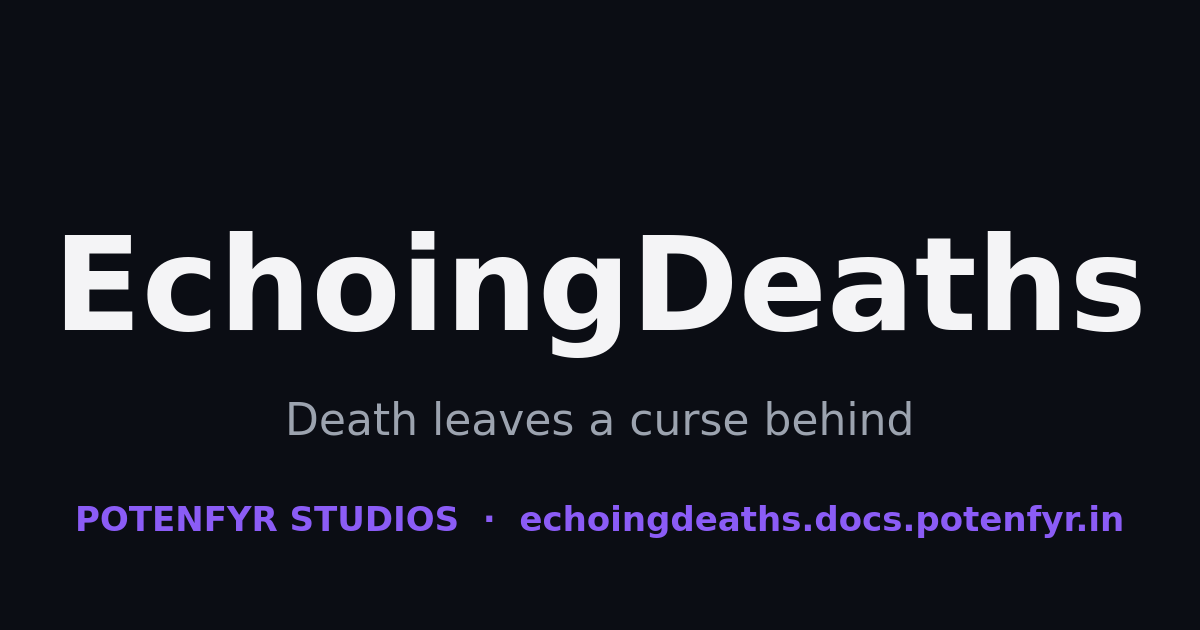
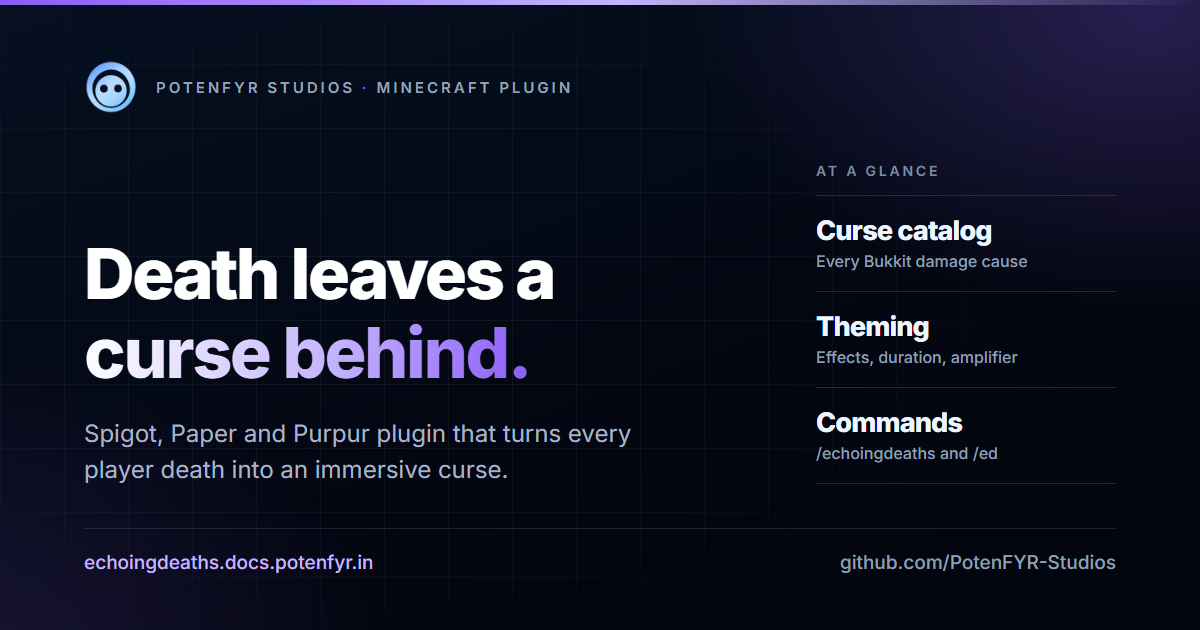
feat(docs): redesigned OG card rendered from a committed script

diff --git a/docs/scripts/og/card.html b/docs/scripts/og/card.html
@@ -1,0 +1,199 @@
+<!doctype html>
+<html lang="en">
+  <head>
+    <meta charset="utf-8" />
+    <title>EchoingDeaths link preview</title>
+    <!--
+      Shared template for PotenFYR Studios project OG cards.
+      Edit only the CONFIG block below; the layout stays identical across the org
+      so every project's link preview reads as one family.
+      Render with: bun run og:image  (scripts/og/build-og.mjs)
+    -->
+    <link rel="preconnect" href="https://fonts.googleapis.com" />
+    <link rel="preconnect" href="https://fonts.gstatic.com" crossorigin />
+    <link
+      href="https://fonts.googleapis.com/css2?family=Inter:wght@400;500;600;700;800&display=swap"
+      rel="stylesheet"
+    />
+    <style>
+      /* ---------------- CONFIG ---------------- */
+      :root {
+        --accent: #8b5cf6;         /* project accent, matches the docs site */
+        --accent-soft: #c4b5fd;    /* lighter tint of --accent */
+      }
+      /* ---------------- /CONFIG --------------- */
+
+      * { box-sizing: border-box; margin: 0; padding: 0; }
+      html, body { width: 1200px; height: 630px; overflow: hidden; }
+      body {
+        font-family: 'Inter', 'Segoe UI', system-ui, sans-serif;
+        background: #030712;
+        color: #fff;
+        -webkit-font-smoothing: antialiased;
+      }
+
+      .card {
+        position: relative;
+        width: 1200px;
+        height: 630px;
+        padding: 60px 84px 56px;
+        display: flex;
+        flex-direction: column;
+        background:
+          radial-gradient(720px 460px at 96% 2%, color-mix(in srgb, var(--accent) 26%, transparent), transparent 64%),
+          radial-gradient(700px 500px at -4% 106%, color-mix(in srgb, var(--accent) 16%, transparent), transparent 62%),
+          linear-gradient(160deg, #061021 0%, #030712 54%, #03050d 100%);
+        overflow: hidden;
+      }
+
+      .grid {
+        position: absolute;
+        inset: 0;
+        background-image:
+          linear-gradient(to right, rgba(148, 163, 184, 0.10) 1px, transparent 1px),
+          linear-gradient(to bottom, rgba(148, 163, 184, 0.10) 1px, transparent 1px);
+        background-size: 64px 64px;
+        -webkit-mask-image: radial-gradient(780px 430px at 32% 50%, #000 0%, rgba(0, 0, 0, 0.5) 60%, transparent 88%);
+        mask-image: radial-gradient(780px 430px at 32% 50%, #000 0%, rgba(0, 0, 0, 0.5) 60%, transparent 88%);
+      }
+
+      .edge {
+        position: absolute;
+        top: 0; left: 0; right: 0;
+        height: 5px;
+        background: linear-gradient(90deg, var(--accent) 0%, var(--accent-soft) 52%, transparent 100%);
+      }
+
+      .content { position: relative; z-index: 2; display: flex; flex-direction: column; height: 100%; }
+
+      .lockup { display: flex; align-items: center; gap: 18px; }
+      .lockup img { width: 54px; height: 54px; display: block; }
+      .lockup .studio {
+        font-size: 15px;
+        font-weight: 600;
+        letter-spacing: 0.2em;
+        text-transform: uppercase;
+        color: #94a3b8;
+      }
+      .lockup .studio em { font-style: normal; color: var(--accent); }
+
+      .body {
+        margin-top: auto;
+        display: flex;
+        align-items: flex-end;
+        justify-content: space-between;
+        gap: 54px;
+      }
+      .copy { max-width: 720px; }
+
+      h1 {
+        font-size: 70px;
+        line-height: 1.12;
+        font-weight: 800;
+        letter-spacing: -0.035em;
+      }
+      h1 .grad {
+        background: linear-gradient(96deg, #ffffff 0%, var(--accent-soft) 55%, var(--accent) 100%);
+        -webkit-background-clip: text;
+        background-clip: text;
+        -webkit-text-fill-color: transparent;
+      }
+
+      p.lede {
+        margin-top: 24px;
+        font-size: 24px;
+        line-height: 1.5;
+        color: #a8b4c6;
+      }
+
+      .facts { display: flex; flex-direction: column; min-width: 300px; padding-bottom: 4px; }
+      .facts .eyebrow {
+        font-size: 14px;
+        font-weight: 600;
+        letter-spacing: 0.2em;
+        text-transform: uppercase;
+        color: #7c8ba1;
+        padding-bottom: 16px;
+      }
+      .fact {
+        border-top: 1px solid rgba(148, 163, 184, 0.22);
+        padding: 18px 0 20px;
+      }
+      .fact.last { border-bottom: 1px solid rgba(148, 163, 184, 0.22); }
+      .fact b {
+        display: block;
+        font-size: 27px;
+        font-weight: 800;
+        letter-spacing: -0.03em;
+        color: #eef6ff;
+      }
+      .fact span {
+        display: block;
+        margin-top: 4px;
+        font-size: 16px;
+        font-weight: 500;
+        color: #8fa0b6;
+      }
+
+      .foot {
+        margin-top: 40px;
+        display: flex;
+        align-items: center;
+        justify-content: space-between;
+        border-top: 1px solid rgba(148, 163, 184, 0.18);
+        padding-top: 22px;
+        font-size: 19px;
+        font-weight: 500;
+      }
+      .foot .domain { color: var(--accent-soft); }
+      .foot .org { color: #8fa0b6; }
+    </style>
+  </head>
+  <body>
+    <div class="card">
+      <div class="grid"></div>
+      <div class="edge"></div>
+
+      <div class="content">
+        <div class="lockup">
+          <img src="../../public/favicon.png" alt="" />
+          <div class="studio">PotenFYR Studios <em>·</em> Minecraft Plugin</div>
+        </div>
+
+        <div class="body">
+          <div class="copy">
+            <h1>
+              Death leaves a<br />
+              <span class="grad">curse behind.</span>
+            </h1>
+            <p class="lede">
+              Spigot, Paper and Purpur plugin that turns every<br />
+              player death into an immersive curse.
+            </p>
+          </div>
+
+          <div class="facts">
+            <div class="eyebrow">At a glance</div>
+            <div class="fact">
+              <b>Curse catalog</b>
+              <span>Every Bukkit damage cause</span>
+            </div>
+            <div class="fact">
+              <b>Theming</b>
+              <span>Effects, duration, amplifier</span>
+            </div>
+            <div class="fact last">
+              <b>Commands</b>
+              <span>/echoingdeaths and /ed</span>
+            </div>
+          </div>
+        </div>
+
+        <div class="foot">
+          <div class="domain">echoingdeaths.docs.potenfyr.in</div>
+          <div class="org">github.com/PotenFYR-Studios</div>
+        </div>
+      </div>
+    </div>
+  </body>
+</html>
